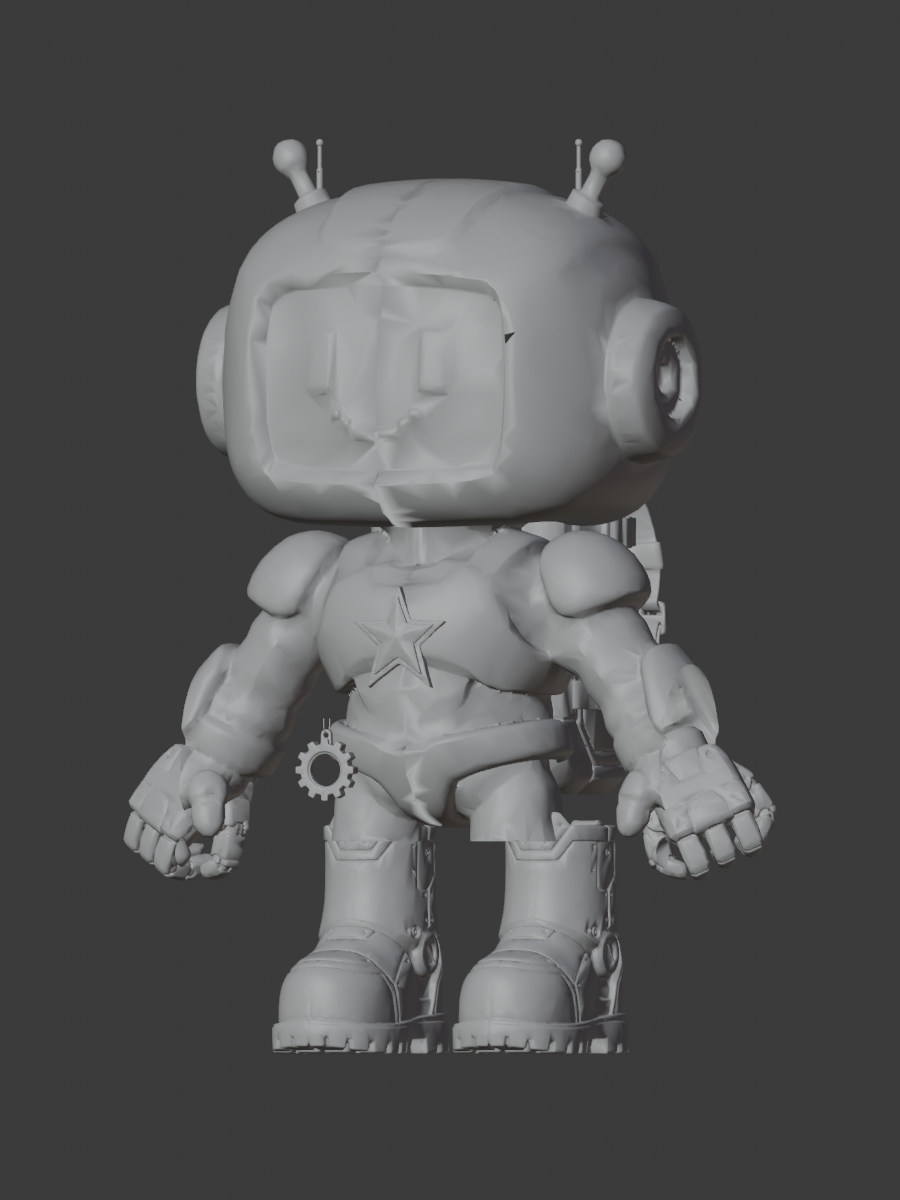
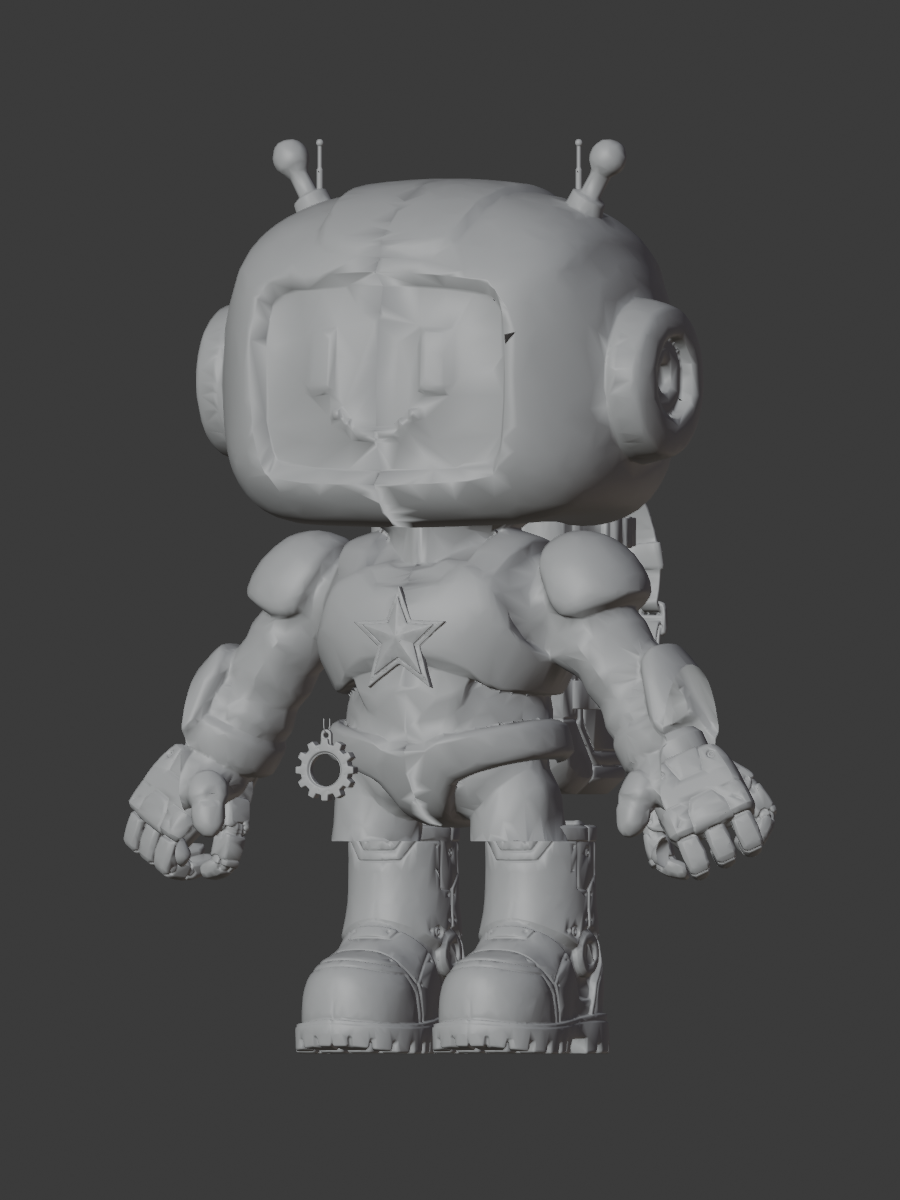
Center boots on the visible shin columns; per-side offsets for mesh asymmetry
The r2 alignment targeted the base's boot-flare zone, which sits wider than
the shin that's actually visible above the cuff, so both boots sat outboard
(worst on the right - the v2 mesh legs are not perfectly symmetric). Boots
now align to the probed shin columns (L x_mean +0.159, R -0.155) via a new
optional fit.offset_frac_right for limb_pair traits. Pilot preview + web
boot piece rebuilt; editor verified with zero piece failures.

Claude-Session: https://claude.ai/code/session_01Uyv6rjM3xMi8jEKQttF1cr

Changed region(s): [[0.28, 0.6783, 0.7156, 0.8942]]

diff --git a/tools/knitbit_manifest.py b/tools/knitbit_manifest.py
@@ -113,12 +113,16 @@ def _instructions_for_trait(trait, dynamic=None):
         hides = trait.get("hides")
         if not bone:
             raise ValueError(f"trait '{trait['id']}' has mount 'limb_pair' but no attach_bone set")
+        # optional per-side override for asymmetric base meshes (the v2 base's
+        # leg columns differ slightly L vs R). Authored in the SAME left-side
+        # convention as offset_frac — x is still negated on application.
+        off_r = fit.get("offset_frac_right", off)
         return [
             FitInstruction(trait["id"] + "_left", trait["id"], file_abs, None,
                            scale, rot, False, off, dynamic,
                            attach_bone=f"{bone}.L", hides_region=hides),
             FitInstruction(trait["id"] + "_right", trait["id"], file_abs, None,
-                           scale, rot, True, off, dynamic,
+                           scale, rot, True, off_r, dynamic,
                            attach_bone=f"{bone}.R", hides_region=hides),
         ]
     if mount == "socket":